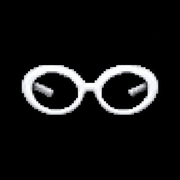
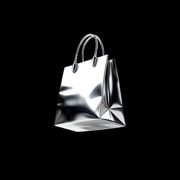
feat: rebrand clout as bagged

Changed region(s): [[0.1111, 0.1667, 0.8889, 0.75]]

diff --git a/app.js b/app.js
@@ -1,4 +1,4 @@
-/* Clout web app. Talks to the Clout server; falls back to an in-browser world when opened as a standalone file. */
+/* Bagged web app. Talks to the Bagged server; falls back to an in-browser world when opened as a standalone file. */
 (function () {
 'use strict';
 const En = Engine;
@@ -112,7 +112,7 @@ const globalBoard = () => { if (!_gb || Date.now() - _gbAt > 1500) { _gb = En.gl
 /* ---------- pages ---------- */
 function home() { queue(initFeed);
   return `<section class="hero2"><h1>Get paid to<br>post about coins</h1>
-    <p>Every coin launched on Clout sends its creator fees to the people posting about it on X. The deployer gets nothing. Bagworkers get everything, paid out every epoch.</p>
+    <p>Every coin launched on Bagged sends its creator fees to the people posting about it on X. The deployer gets nothing. Bagworkers get everything, paid out every epoch.</p>
     <div class="ctas center"><a class="btn pri lg" href="#launch">Launch a coin</a><a class="btn lg" href="#earn">Start earning</a></div></section>
   <section class="bento2">
     <div class="bx half"><a class="cover" href="#explore" aria-label="Explore coins"></a><div class="feedwrap"><div class="plistv" id="hfeed"></div></div><div class="bfoot"><span>Live posts</span><span>Explore →</span></div></div>
@@ -155,7 +155,7 @@ function tokenPage(mint) { const t = T(mint); if (!t) return notFound();
     <div class="pb" style="padding-top:12px">${live('tMain', () => tokenMain(t))}</div></div>
    <aside class="side">
     <div class="panel"><div class="ph"><span class="eyebrow">Your eligibility</span></div><div class="pb">${live('tMe', () => meChecks(t))}<a class="btn pri" style="width:100%;margin-top:14px" href="#earn" data-act="earnfor" data-v="${t.mint}">Post about $${esc(t.ticker)}</a></div></div>
-    <div class="panel"><div class="ph"><span class="eyebrow">Where this coin's fees go</span></div><div class="pb">${splitBar()}<div class="zero"><span>Deployer ${short(t.deployer, 4) || ''}</span><b>0%</b></div><p class="hint" style="margin-top:10px">The platform share keeps Clout running. Fee routing is locked at launch.</p></div></div>
+    <div class="panel"><div class="ph"><span class="eyebrow">Where this coin's fees go</span></div><div class="pb">${splitBar()}<div class="zero"><span>Deployer ${short(t.deployer, 4) || ''}</span><b>0%</b></div><p class="hint" style="margin-top:10px">The platform share keeps Bagged running. Fee routing is locked at launch.</p></div></div>
     <div class="panel"><div class="ph"><span class="eyebrow">Paid per epoch</span></div><div class="pb">${live('tChart', () => { const e = t.epochs.slice(0, 12).reverse(); if (e.length < 2) return '<p class="hint">Chart appears after two epochs.</p>'; return bars(e.map(x => x.paid + (x.held || 0)), e.map(x => '#' + en(x.n))); })}</div></div>
    </aside></div>`; }
 function bars(vals, labels) { const W = 300, H = 120, pl = 4, pb = 18, n = vals.length, mx = Math.max(...vals, 1e-9) * 1.1, bw = (W - pl * 2) / n;
@@ -190,7 +190,7 @@ function userPage(h) { const a = A(h); if (!a) return notFound(); const flags = 
 /* ---------- Earn ---------- */
 const D = { draft: '', handle: '', followers: '1200', age: '420', code: null };
 function earnPage() { if (!ui.earnMint || !T(ui.earnMint)) ui.earnMint = (S.tokens.slice().sort((a, b) => b.pool - a.pool)[0] || {}).mint;
-  return `<div class="phead"><div><span class="eyebrow">Earn</span><h1 style="margin-top:10px">Post about a coin, get paid every epoch</h1><p>${isTest() ? 'Test mode: sign in with any handle, hold with fake SOL and write posts here. Engagement is simulated.' : 'Clout finds your posts on X automatically. Verify your handle, link a wallet, hold the coin, and post.'}</p></div></div>
+  return `<div class="phead"><div><span class="eyebrow">Earn</span><h1 style="margin-top:10px">Post about a coin, get paid every epoch</h1><p>${isTest() ? 'Test mode: sign in with any handle, hold with fake SOL and write posts here. Engagement is simulated.' : 'Bagged finds your posts on X automatically. Verify your handle, link a wallet, hold the coin, and post.'}</p></div></div>
   <div class="ea"><div class="panel"><div class="pb" style="padding-top:20px" id="eSteps">${earnSteps()}</div></div><aside class="side">${live('eMe', earnSide)}</aside></div>`; }
 function earnSteps() { const me = ME(), t = T(ui.earnMint); const st = (n, done, title, body) => `<div class="estep${done ? ' done' : ''}"><span class="num">${done ? '✓' : n}</span><div class="body"><h3>${title}</h3>${body}</div></div>`;
   let s1;
@@ -198,8 +198,8 @@ function earnSteps() { const me = ME(), t = T(ui.earnMint); const st = (n, done,
   else if (isTest()) s1 = `<div class="field"><label for="eHandle">Your X handle</label><div class="pre"><span>@</span><input class="inp" id="eHandle" value="${esc(D.handle)}" placeholder="yourhandle" autocomplete="off"></div></div><div class="frow"><div class="field"><label for="eFol">Followers</label><input class="inp" id="eFol" inputmode="numeric" value="${esc(D.followers)}"></div><div class="field"><label for="eAge">Account age (days)</label><input class="inp" id="eAge" inputmode="numeric" value="${esc(D.age)}"></div></div>
      <p class="hint">Test sign-in. Try an age under ${cfg().minAge} to see that rule block payouts.</p><button class="btn pri" data-act="signin" style="align-self:flex-start">Sign in</button>`;
   else if (S.chain && !S.chain.x) s1 = '<p class="notice">X sign-in is not connected on this server yet (the admin needs to add an X API token).</p>';
-  else s1 = D.code ? `<p class="muted">Post this from <b>@${esc(D.handle)}</b>, then check:</p><div class="codebox"><code id="vText">Verifying my account for Clout: ${esc(D.code)}</code><button class="btn sm" data-act="copy" data-v="Verifying my account for Clout: ${esc(D.code)}">Copy</button></div><div class="ctas"><a class="btn" target="_blank" rel="noopener" href="https://x.com/intent/post?text=${encodeURIComponent('Verifying my account for Clout: ' + D.code)}">Post on X</a><button class="btn pri" data-act="vcheck">I posted it</button></div>`
-    : `<div class="field"><label for="eHandle">Your X handle</label><div class="pre"><span>@</span><input class="inp" id="eHandle" value="${esc(D.handle)}" placeholder="yourhandle" autocomplete="off"></div></div><p class="hint">You'll post a short code from this account so Clout knows it's yours.</p><button class="btn pri" data-act="vstart" style="align-self:flex-start">Get my code</button>`;
+  else s1 = D.code ? `<p class="muted">Post this from <b>@${esc(D.handle)}</b>, then check:</p><div class="codebox"><code id="vText">Verifying my account for Bagged: ${esc(D.code)}</code><button class="btn sm" data-act="copy" data-v="Verifying my account for Bagged: ${esc(D.code)}">Copy</button></div><div class="ctas"><a class="btn" target="_blank" rel="noopener" href="https://x.com/intent/post?text=${encodeURIComponent('Verifying my account for Bagged: ' + D.code)}">Post on X</a><button class="btn pri" data-act="vcheck">I posted it</button></div>`
+    : `<div class="field"><label for="eHandle">Your X handle</label><div class="pre"><span>@</span><input class="inp" id="eHandle" value="${esc(D.handle)}" placeholder="yourhandle" autocomplete="off"></div></div><p class="hint">You'll post a short code from this account so Bagged knows it's yours.</p><button class="btn pri" data-act="vstart" style="align-self:flex-start">Get my code</button>`;
   const s2 = me && me.linked ? `<p class="muted">Payouts go to <span class="mono">${short(me.wallet, 6)}</span>.${isTest() ? '' : ' <button class="lnk" data-act="link">Change wallet</button>'}</p>` : `<p class="muted">Payouts are sent in SOL to this wallet. It's also where your holding is checked.</p><button class="btn ${me ? 'pri' : ''}" data-act="link" ${me ? '' : 'disabled'} style="align-self:flex-start">${isTest() ? 'Link test wallet' : 'Connect and sign with wallet'}</button>`;
   if (!t) return `<div class="stepbox">${st(1, !!me, isTest() ? 'Sign in' : 'Verify your X account', s1)}${st(2, !!(me && me.linked), 'Link a wallet', s2)}${st(3, false, 'Hold a coin', '<p class="muted">No coins have launched yet. Launch one, or check back soon.</p>')}</div>`;
   const opts = S.tokens.slice().sort((a, b) => b.pool - a.pool).map(x => `<option value="${x.mint}" ${x.mint === ui.earnMint ? 'selected' : ''}>$${esc(x.ticker)} · ${esc(x.name)} · pool ${sol(x.pool)}</option>`).join('');
@@ -209,7 +209,7 @@ function earnSteps() { const me = ME(), t = T(ui.earnMint); const st = (n, done,
    ${isTest() ? (held ? `<button class="btn sm" data-act="buy" data-v="${t.mint}" data-x="10" style="align-self:flex-start">Top up to 10× (test)</button>` : `<button class="btn ${me && me.linked ? 'pri' : ''}" data-act="buy" data-v="${t.mint}" ${me && me.linked ? '' : 'disabled'} style="align-self:flex-start">Buy the minimum (test)</button>`) : (held ? '' : `<p class="hint">Holdings are read from your linked wallet on chain.</p><a class="btn" target="_blank" rel="noopener" style="align-self:flex-start" href="https://pump.fun/coin/${t.mint}">Buy $${esc(t.ticker)} on pump.fun</a>`)}`;
   const s4 = isTest() ? `<div class="field"><label for="eDraft">Your post</label><textarea class="inp" id="eDraft" rows="4" maxlength="280" placeholder="Write about $${esc(t.ticker)}. End with #ad.">${esc(D.draft)}</textarea><div style="display:flex;justify-content:space-between"><button class="lnk" data-act="sample">Use an example</button><span class="counter" id="eCount">${D.draft.length}/280</span></div></div><div id="eChecks">${draftChecks()}</div>
    <button class="btn pri" id="ePost" data-act="post" ${draftOk() ? '' : 'disabled'} style="align-self:flex-start">Post (test)</button>`
-   : `<p class="muted">Post on X with ${t.caOnly ? `<b>the contract address</b> (<span class="mono">${short(t.mint, 5)}</span>, $${esc(t.ticker)} alone isn't tracked because that ticker is busy on X)` : `<b>$${esc(t.ticker)}</b>`} and <b>${esc(cfg().disclose[0])}</b>. Clout picks it up within a few minutes and it appears on the coin page with its score. Each post keeps earning on its new engagement for ${cfg().postLifeHours ?? 24} hours. Only posts made after you verified count${cfg().minEngage ? `, and a post needs at least ${cfg().minEngage} likes, replies, reposts or quotes before it earns` : ''}.</p><a class="btn pri" target="_blank" rel="noopener" style="align-self:flex-start" href="https://x.com/intent/post?text=${encodeURIComponent('$' + t.ticker + ' ' + (t.caOnly ? t.mint + ' ' : '') + cfg().disclose[0])}">Post on X</a>`;
+   : `<p class="muted">Post on X with ${t.caOnly ? `<b>the contract address</b> (<span class="mono">${short(t.mint, 5)}</span>, $${esc(t.ticker)} alone isn't tracked because that ticker is busy on X)` : `<b>$${esc(t.ticker)}</b>`} and <b>${esc(cfg().disclose[0])}</b>. Bagged picks it up within a few minutes and it appears on the coin page with its score. Each post keeps earning on its new engagement for ${cfg().postLifeHours ?? 24} hours. Only posts made after you verified count${cfg().minEngage ? `, and a post needs at least ${cfg().minEngage} likes, replies, reposts or quotes before it earns` : ''}.</p><a class="btn pri" target="_blank" rel="noopener" style="align-self:flex-start" href="https://x.com/intent/post?text=${encodeURIComponent('$' + t.ticker + ' ' + (t.caOnly ? t.mint + ' ' : '') + cfg().disclose[0])}">Post on X</a>`;
   return `<div class="stepbox">${st(1, !!me, isTest() ? 'Sign in' : 'Verify your X account', s1)}${st(2, !!(me && me.linked), 'Link a wallet', s2)}${st(3, held, 'Hold the coin', s3)}${st(4, false, 'Post about it', s4)}</div>`; }
 function draftList() { const me = ME(), t = T(ui.earnMint), d = D.draft; const norm = s => s.toLowerCase().replace(/[^a-z0-9$ ]/g, '').replace(/\s+/g, ' ').trim();
   const mine = me ? S.posts.filter(p => p.h === me.handle && p.mint === t.mint && p.ep === S.epoch).length : 0;
@@ -231,7 +231,7 @@ function earnSide() { const me = ME(); if (!me) return `<div class="panel"><div 
 /* ---------- Launch ---------- */
 const L = { name: '', ticker: '', desc: '', img: null, minHold: .05, agree: false, busy: 0, done: null, dev: '', sig: null };
 const chainReady = () => !!(S.chain && S.chain.live && S.chain.ready);
-function launchPage() { return `<div class="phead"><div><span class="eyebrow">Launch</span><h1 style="margin-top:10px">Launch a coin that pays its promoters</h1><p>Creator fees route to the Clout pool at launch and never to you. Your upside is holding the coin, the same as everyone else.</p></div></div>
+function launchPage() { return `<div class="phead"><div><span class="eyebrow">Launch</span><h1 style="margin-top:10px">Launch a coin that pays its promoters</h1><p>Creator fees route to the Bagged pool at launch and never to you. Your upside is holding the coin, the same as everyone else.</p></div></div>
   ${isTest() || chainReady() ? '' : `<p class="notice" style="margin-bottom:16px">Launching is switched off until the server is fully set up${S.chain && S.chain.problem ? ': ' + esc(S.chain.problem) : '.'}</p>`}
   <div class="lgrid"><div class="panel" id="lBody">${lBody()}</div><aside class="prev" id="lPrev">${lPrev()}</aside></div>`; }
 function lBody() { if (L.done && T(L.done)) { const t = T(L.done); return `<div class="lform"><span class="pill ok" style="align-self:flex-start"><span class="dot"></span>Launched</span><h2>$${esc(t.ticker)} is live</h2><p class="muted">Its creator fees now fill a pool for the people who post about it. The first epoch settles in <span data-cd>${left(En.eEnd(S.epoch) - now())}</span>.</p><div class="codebox"><code>${t.mint}</code><button class="btn sm" data-act="copy" data-v="${t.mint}">Copy</button></div><div class="ctas"><a class="btn pri" href="#t-${t.mint}">View coin</a>${t.sim ? '' : `<a class="btn" target="_blank" rel="noopener" href="https://pump.fun/coin/${t.mint}">pump.fun ↗</a>${L.sig ? `<a class="btn" target="_blank" rel="noopener" href="https://solscan.io/tx/${L.sig}">Transaction ↗</a>` : ''}`}<button class="btn" data-act="lreset">Launch another</button></div></div>`; }
@@ -245,9 +245,9 @@ function lBody() { if (L.done && T(L.done)) { const t = T(L.done); return `<div 
    <hr class="divider" style="margin:0"><label class="check"><input type="checkbox" id="lAgree" ${L.agree ? 'checked' : ''}><span>I understand creator fees from this coin are routed to bagworkers permanently and I can't redirect them.</span></label>
    <div id="lSubmit">${lSubmit()}</div></form>`; }
 const lValid = () => !!(L.name.trim() && L.ticker.trim() && L.agree && (isTest() || (chainReady() && L.img)));
-const LIVE_STEPS = ['Upload image and metadata', 'Approve in your wallet', 'Send to Solana', 'Confirm Clout receives the creator fees'];
+const LIVE_STEPS = ['Upload image and metadata', 'Approve in your wallet', 'Send to Solana', 'Confirm Bagged receives the creator fees'];
 function lSubmit() { if (L.busy) return `<ol class="steps">${(isTest() ? ['Upload image and metadata', 'Create mint and bonding curve', 'Route creator fees to the pool', 'Check creator on chain', 'Open epoch #' + en(S.epoch)] : LIVE_STEPS).map((s, i) => `<li class="${i < L.busy - 1 ? 'done' : i === L.busy - 1 ? 'on' : ''}"><span class="s">${i < L.busy - 1 ? '✓' : i + 1}</span>${s}</li>`).join('')}</ol>`;
-  return `<button type="submit" class="btn pri lg" style="width:100%" ${lValid() ? '' : 'disabled'}>Launch $${esc(L.ticker || 'COIN')}${isTest() ? ' (test)' : ''}</button><p class="hint" style="margin-top:8px;text-align:center">${isTest() ? (lValid() ? 'Test mode: the coin is created in Clout\'s database, not on chain.' : 'Add a name and ticker, and confirm the fee routing.') : !chainReady() ? 'Launching is switched off on this server.' : lValid() ? 'Your wallet will ask you to approve. The coin is created on pump.fun.' : 'Add a name, ticker and image, and confirm the fee routing.'}</p>`; }
+  return `<button type="submit" class="btn pri lg" style="width:100%" ${lValid() ? '' : 'disabled'}>Launch $${esc(L.ticker || 'COIN')}${isTest() ? ' (test)' : ''}</button><p class="hint" style="margin-top:8px;text-align:center">${isTest() ? (lValid() ? 'Test mode: the coin is created in Bagged\'s database, not on chain.' : 'Add a name and ticker, and confirm the fee routing.') : !chainReady() ? 'Launching is switched off on this server.' : lValid() ? 'Your wallet will ask you to approve. The coin is created on pump.fun.' : 'Add a name, ticker and image, and confirm the fee routing.'}</p>`; }
 function lPrev() { const fake = { hue: hash(L.ticker || 'x') % 360, ticker: L.ticker || 'C' }; const img = L.img || tokenImg(fake);
   return `<div class="icard" style="transform:none"><div class="fimg"><img src="${img}" alt=""><span class="fage">now</span><span class="fown">0 bagworking</span></div><div class="fmeta"><div class="n">${esc(L.name || 'Coin name')}<small>${esc(L.ticker || 'TICKER')}</small></div><div class="m"><span><b>0 SOL</b><small>pool</small></span><span><b>$4.2K</b><small>MC</small></span></div></div></div>
   <div class="callout">Early posts score up to <b>${cfg().earlyMax}×</b> in the first ${cfg().earlyHours} hours, so the first bagworkers are the best paid.</div>`; }
@@ -294,11 +294,11 @@ async function runLiveLaunch() {
 const DOCS = [['fees', 'Where fees go'], ['epochs', 'Epochs'], ['eligible', 'Who can earn'], ['score', 'Scoring'], ['caps', 'Caps and rollover'], ['claim', 'Claiming'], ['abuse', 'Anti-abuse'], ['disclose', 'Disclosure']];
 function docsPage(sec) { if (sec) queue(() => { const el = document.getElementById('d-' + sec); if (el) el.scrollIntoView(); }); queue(calcRun); const c = cfg(), w = c.weights, P = Math.round(c.poolShare * 100);
   const H = n => `<h2><span>${String(n).padStart(2, '0')}</span>${DOCS[n - 1][1]}</h2>`;
-  return `<div class="phead"><div><span class="eyebrow">How it works</span><h1 style="margin-top:10px">The Clout system</h1><p>A launchpad where creator fees can only go one place: to the people who post about the coin. These are the live rules, read from the running engine.</p></div></div>
+  return `<div class="phead"><div><span class="eyebrow">How it works</span><h1 style="margin-top:10px">The Bagged system</h1><p>A launchpad where creator fees can only go one place: to the people who post about the coin. These are the live rules, read from the running engine.</p></div></div>
   <div class="dgrid"><nav class="toc" aria-label="Contents"><ol>${DOCS.map((d, i) => `<li><a href="#docs-${d[0]}"><span>${i + 1}</span>${d[1]}</a></li>`).join('')}</ol></nav><article class="prose">
-  <section id="d-fees">${H(1)}<p>Every coin launched on Clout is created on pump.fun with an Clout-held key as its creator, so 100% of its creator fees flow to Clout, never to the deployer. Clout checks this on chain before the coin is listed. Fees are collected every few minutes and split below.</p>
-   <dl class="kv"><dt>Bagworker pool</dt><dd>${P}%, split among eligible posters every epoch</dd>${P < 100 ? `<dt>Platform</dt><dd>${100 - P}%, the Clout platform fee (covers X API access, servers and payouts)</dd>` : ''}<dt>Deployer</dt><dd>0% for launching. A deployer who posts about their coin and holds it earns from the bagworker pool under the same rules and caps as everyone else</dd></dl></section>
-  <section id="d-epochs">${H(2)}<p>Fees accrue into the coin's pool as it trades. Every ${c.epochMin} minutes the epoch closes: Clout checks holdings, measures the new likes, replies, reposts and quotes each eligible post got during that epoch, computes scores and credits payouts. A post keeps earning for ${c.postLifeHours ?? 24} hours after it's posted, so a post that takes off later still gets paid for it, as long as you keep holding and don't delete it.</p></section>
+  <section id="d-fees">${H(1)}<p>Every coin launched on Bagged is created on pump.fun with an Bagged-held key as its creator, so 100% of its creator fees flow to Bagged, never to the deployer. Bagged checks this on chain before the coin is listed. Fees are collected every few minutes and split below.</p>
+   <dl class="kv"><dt>Bagworker pool</dt><dd>${P}%, split among eligible posters every epoch</dd>${P < 100 ? `<dt>Platform</dt><dd>${100 - P}%, the Bagged platform fee (covers X API access, servers and payouts)</dd>` : ''}<dt>Deployer</dt><dd>0% for launching. A deployer who posts about their coin and holds it earns from the bagworker pool under the same rules and caps as everyone else</dd></dl></section>
+  <section id="d-epochs">${H(2)}<p>Fees accrue into the coin's pool as it trades. Every ${c.epochMin} minutes the epoch closes: Bagged checks holdings, measures the new likes, replies, reposts and quotes each eligible post got during that epoch, computes scores and credits payouts. A post keeps earning for ${c.postLifeHours ?? 24} hours after it's posted, so a post that takes off later still gets paid for it, as long as you keep holding and don't delete it.</p></section>
   <section id="d-eligible">${H(3)}<dl class="kv"><dt>Mentions the coin</dt><dd>$TICKER or the contract address</dd><dt>Disclosed</dt><dd>Contains ${c.disclose.join(', ')}</dd><dt>Account age</dt><dd>${c.minAge} days or older</dd><dt>Linked wallet</dt><dd>Verified by signing a message</dd><dt>Holds the coin</dt><dd>The coin's minimum (0.01%, 0.05% or 0.1% of supply) at settlement</dd><dt>Original</dt><dd>Not a copy of another post about the same coin</dd>${c.minEngage ? `<dt>Some reach</dt><dd>At least ${c.minEngage} likes, replies, reposts or quotes combined (views don't count)</dd>` : ''}<dt>In good standing</dt><dd>Not suspended, post not removed by a moderator</dd></dl></section>
   <section id="d-score">${H(4)}<div class="formula">score      = engagement^${c.exponent} × trust × hold × early
 
@@ -309,9 +309,9 @@ hold       = 1 + 0.5·log10(holding ÷ minimum), capped at ${c.holdMax}
 early      = ${c.earlyMax} in the first ${c.earlyHours}h after launch, easing to 1.0 by ${c.earlyFade}h</div>
    <div class="tester"><div class="flab">Score calculator</div><div class="calc">${[['cLikes', 'Likes', 120], ['cReplies', 'Replies', 18], ['cReposts', 'Reposts', 14], ['cQuotes', 'Quotes', 4], ['cViews', 'Views', 9000], ['cTrust', 'Trust (0–1)', 0.8], ['cHold', 'Holding × minimum', 3], ['cHrs', 'Hours after launch', 2], ['cPool', 'Epoch pool (SOL)', 12], ['cOthers', 'Everyone else\'s score', 400]].map(([id, l, v]) => `<div class="field"><label for="${id}">${l}</label><input class="inp mono" id="${id}" inputmode="decimal" value="${v}"></div>`).join('')}</div><div class="calcout" id="cOut"></div></div></section>
   <section id="d-caps">${H(5)}<p>Each account's payout for one coin in one epoch is capped at <b>${c.cap * 100}%</b> of the pool, and only its best <b>${c.maxPosts}</b> posts for that coin count. Anything a cap keeps back rolls into the next epoch, as does the whole pool when nobody eligible posted. Single payouts of ${c.reviewSol} SOL or more are held for a manual review before they're claimable.</p></section>
-  <section id="d-claim">${H(6)}<p>Balances accumulate across epochs and coins. After each epoch Clout computes a Merkle root over every wallet's cumulative earnings, which an on-chain distributor uses to pay claims. Unclaimed balances don't expire.</p></section>
+  <section id="d-claim">${H(6)}<p>Balances accumulate across epochs and coins. After each epoch Bagged computes a Merkle root over every wallet's cumulative earnings, which an on-chain distributor uses to pay claims. Unclaimed balances don't expire.</p></section>
   <section id="d-abuse">${H(7)}<dl class="kv"><dt>Holding requirement</dt><dd>Farms must buy the coin before they can farm it</dd><dt>Account age</dt><dd>Fresh accounts can't earn</dd><dt>Diminishing returns</dt><dd>The exponent, the post limit and the cap</dd><dt>Engager quality</dt><dd>Engagement from flagged accounts is discounted</dd><dt>Duplicates</dt><dd>Copy-paste posts score zero</dd><dt>Review</dt><dd>Large payouts wait for a moderator</dd></dl></section>
-  <section id="d-disclose">${H(8)}<p>Posts that earn money are paid promotion. Clout only counts posts that say so. Check the advertising rules where you and your posters live, and X's rules on paid promotion and platform manipulation.</p></section>
+  <section id="d-disclose">${H(8)}<p>Posts that earn money are paid promotion. Bagged only counts posts that say so. Check the advertising rules where you and your posters live, and X's rules on paid promotion and platform manipulation.</p></section>
   </article></div>`; }
 function calcRun() { const g = id => parseFloat(($('#' + id) || {}).value) || 0; const o = $('#cOut'); if (!o) return; const c = cfg(), w = c.weights;
   const raw = w.like * g('cLikes') + w.reply * g('cReplies') + w.repost * g('cReposts') + w.quote * g('cQuotes') + w.kview * g('cViews') / 1000; const base = Math.pow(raw, c.exponent); const hold = Math.min(c.holdMax, 1 + .5 * Math.log10(Math.max(1, g('cHold')))); const h = g('cHrs'), early = h <= c.earlyHours ? c.earlyMax : h >= c.earlyFade ? 1 : c.earlyMax - (c.earlyMax - 1) * (h - c.earlyHours) / (c.earlyFade - c.earlyHours);

diff --git a/index.html b/index.html
@@ -3,17 +3,17 @@
 <head>
 <meta charset="utf-8">
 <meta name="viewport" content="width=device-width, initial-scale=1, viewport-fit=cover">
-<title>clout</title>
+<title>bagged</title>
 <link rel="icon" type="image/png" sizes="32x32" href="favicon-32.png">
-<link rel="icon" href="favicon.ico" sizes="any">
+<link rel="icon" href="favicon-32.png" sizes="any">
 <link rel="apple-touch-icon" href="apple-touch-icon.png">
 <meta name="theme-color" content="#0A0A0A">
-<meta name="description" content="Clout: launch a coin whose creator fees pay the people who post about it. Post, hold, get paid in SOL every hour.">
-<meta property="og:title" content="clout">
+<meta name="description" content="Bagged: launch a coin whose creator fees pay the people who post about it. Post, hold, get paid in SOL every hour.">
+<meta property="og:title" content="bagged">
 <meta property="og:description" content="Stop shilling for free. Creator fees go to the people who post about the coin.">
 <meta property="og:image" content="/logo-512.png">
 <meta name="twitter:card" content="summary">
-<meta name="twitter:site" content="@earnclout">
+<meta name="twitter:site" content="@baggedonx">
 <link rel="preconnect" href="https://fonts.googleapis.com">
 <link rel="preconnect" href="https://fonts.gstatic.com" crossorigin>
 <link rel="stylesheet" href="https://fonts.googleapis.com/css2?family=Geist:wght@400;500;600;700&family=Geist+Mono:wght@400;500;600&display=swap">
@@ -22,7 +22,7 @@
 <body>
 <div class="shell">
 <aside class="sidebar" id="sidebar" aria-label="Sidebar">
-  <a class="sbrand" href="index.html#home" aria-label="Clout home"><span class="mk"><img src="logo-96.png" alt="" width="32" height="32"></span><span class="wm">clout</span></a>
+  <a class="sbrand" href="index.html#home" aria-label="Bagged home"><span class="mk"><img src="logo-96.png" alt="" width="32" height="32"></span><span class="wm">bagged</span></a>
   <nav class="sidenav" aria-label="Main">
     <a href="index.html#home" data-nav="home"><svg viewBox="0 0 24 24" aria-hidden="true"><path d="M3.5 10.5 12 4l8.5 6.5V20a1 1 0 0 1-1 1H15v-6H9v6H4.5a1 1 0 0 1-1-1z" fill="currentColor"/></svg><span>Home</span></a>
     <a href="index.html#explore" data-nav="explore"><svg viewBox="0 0 24 24" aria-hidden="true" fill="none" stroke="currentColor" stroke-width="1.8" stroke-linecap="round"><circle cx="11" cy="11" r="7"/><path d="m20 20-3.5-3.5"/></svg><span>Explore</span></a>
@@ -40,11 +40,11 @@
 <header class="topbar">
   <button class="iconbtn" id="sbToggle" data-act="sb" aria-label="Toggle sidebar"><svg viewBox="0 0 16 16" aria-hidden="true"><path d="M8.5 4 4.5 8l4 4M12.5 4l-4 4 4 4" fill="none" stroke="currentColor" stroke-width="1.5" stroke-linecap="round" stroke-linejoin="round"/></svg></button>
   <div class="gsearch"><svg viewBox="0 0 16 16" aria-hidden="true"><circle cx="7" cy="7" r="4.8" fill="none" stroke="currentColor" stroke-width="1.6"/><path d="M10.6 10.6 14 14" stroke="currentColor" stroke-width="1.6" stroke-linecap="round"/></svg><label class="sr" for="gSearch">Search coins and bagworkers</label><input class="inp" id="gSearch" placeholder="Search coins or @handles" autocomplete="off"><div id="gDD"></div></div>
-  <div class="act"><a class="iconbtn" href="https://x.com/earnclout" target="_blank" rel="noopener" aria-label="Clout on X" title="@earnclout on X"><svg viewBox="0 0 24 24" aria-hidden="true" width="16" height="16"><path fill="currentColor" d="M17.75 3h3.07l-6.7 7.66L22 21h-6.17l-4.83-6.32L5.46 21H2.39l7.17-8.2L2 3h6.33l4.37 5.78L17.75 3zm-1.08 16.17h1.7L7.43 4.73H5.6l11.07 14.44z"/></svg></a><a class="btn pri" href="index.html#launch">Launch</a><a class="btn" href="index.html#earn" id="walletBtn">Start earning</a></div>
+  <div class="act"><a class="iconbtn" href="https://x.com/baggedonx" target="_blank" rel="noopener" aria-label="Bagged on X" title="@baggedonx on X"><svg viewBox="0 0 24 24" aria-hidden="true" width="16" height="16"><path fill="currentColor" d="M17.75 3h3.07l-6.7 7.66L22 21h-6.17l-4.83-6.32L5.46 21H2.39l7.17-8.2L2 3h6.33l4.37 5.78L17.75 3zm-1.08 16.17h1.7L7.43 4.73H5.6l11.07 14.44z"/></svg></a><a class="btn pri" href="index.html#launch">Launch</a><a class="btn" href="index.html#earn" id="walletBtn">Start earning</a></div>
 </header>
 <main id="app" class="wrap"><p class="empty" style="padding:80px 0">Loading…</p></main>
 <footer><div class="wrap in">
-  <div><a class="brand" href="index.html#home"><img src="logo-96.png" alt="" width="26" height="26">clout</a><p class="fine" id="footNote">Creator fees go to the people who post about the coin. Deployers get nothing for launching.</p><p class="fine" style="margin-top:10px"><a href="https://x.com/earnclout" target="_blank" rel="noopener" style="display:inline-flex;align-items:center;gap:6px"><svg viewBox="0 0 24 24" aria-hidden="true" width="14" height="14"><path fill="currentColor" d="M17.75 3h3.07l-6.7 7.66L22 21h-6.17l-4.83-6.32L5.46 21H2.39l7.17-8.2L2 3h6.33l4.37 5.78L17.75 3zm-1.08 16.17h1.7L7.43 4.73H5.6l11.07 14.44z"/></svg>@earnclout</a></p></div>
+  <div><a class="brand" href="index.html#home"><img src="logo-96.png" alt="" width="26" height="26">bagged</a><p class="fine" id="footNote">Creator fees go to the people who post about the coin. Deployers get nothing for launching.</p><p class="fine"><a href="https://pump.fun/coin/4C8tC67PGs33uE8TUaCcnqq42YNnXCTuk1yGsa69pump" target="_blank" rel="noopener">CA: 4C8tC67PGs33uE8TUaCcnqq42YNnXCTuk1yGsa69pump</a></p><p class="fine" style="margin-top:10px"><a href="https://x.com/baggedonx" target="_blank" rel="noopener" style="display:inline-flex;align-items:center;gap:6px"><svg viewBox="0 0 24 24" aria-hidden="true" width="14" height="14"><path fill="currentColor" d="M17.75 3h3.07l-6.7 7.66L22 21h-6.17l-4.83-6.32L5.46 21H2.39l7.17-8.2L2 3h6.33l4.37 5.78L17.75 3zm-1.08 16.17h1.7L7.43 4.73H5.6l11.07 14.44z"/></svg>@baggedonx</a></p></div>
   <div><h4>Product</h4><ul><li><a href="index.html#explore">Explore</a></li><li><a href="index.html#earn">Earn</a></li><li><a href="index.html#board">Leaderboard</a></li><li><a href="index.html#launch">Launch</a></li></ul></div>
   <div><h4>System</h4><ul><li><a href="index.html#docs-fees">Where fees go</a></li><li><a href="index.html#docs-score">Scoring</a></li><li><a href="index.html#docs-abuse">Anti-abuse</a></li><li><a href="index.html#docs-claim">Claiming</a></li></ul></div>
   <div><h4>Rules</h4><ul><li><a href="index.html#docs-eligible">Eligibility</a></li><li><a href="index.html#docs-disclose">Disclosure</a></li><li><a href="index.html#docs-caps">Caps and rollover</a></li></ul></div>
